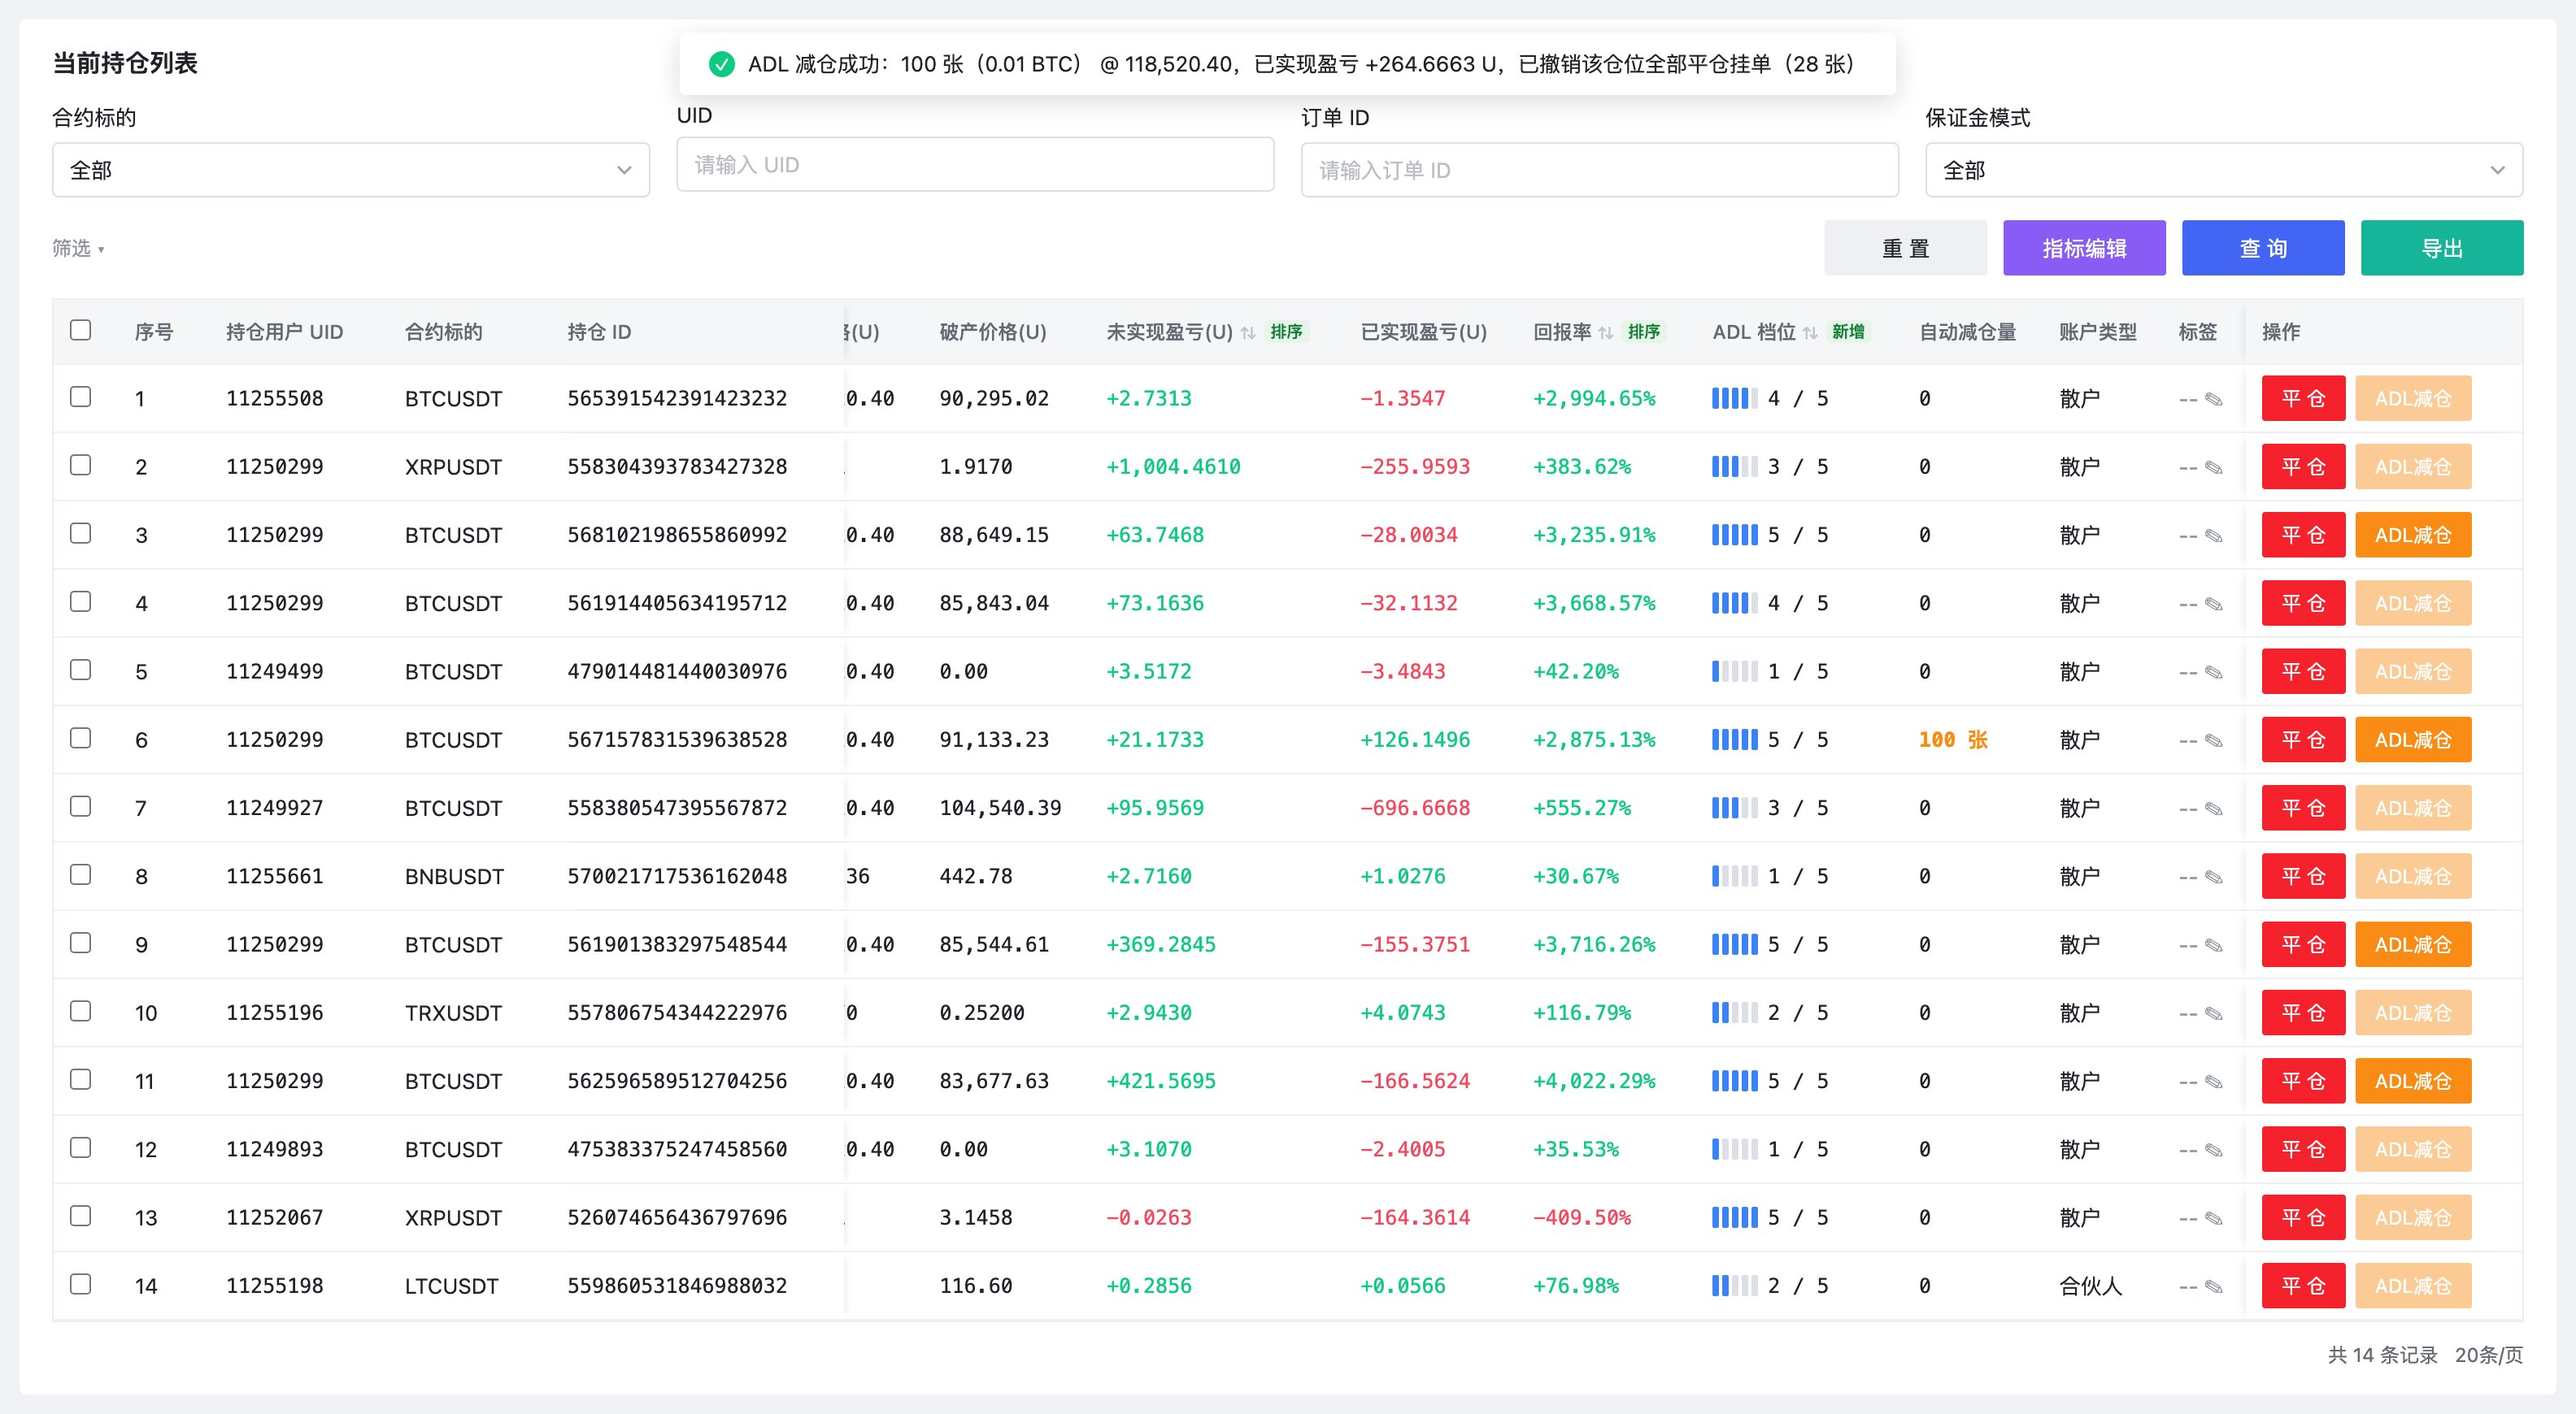
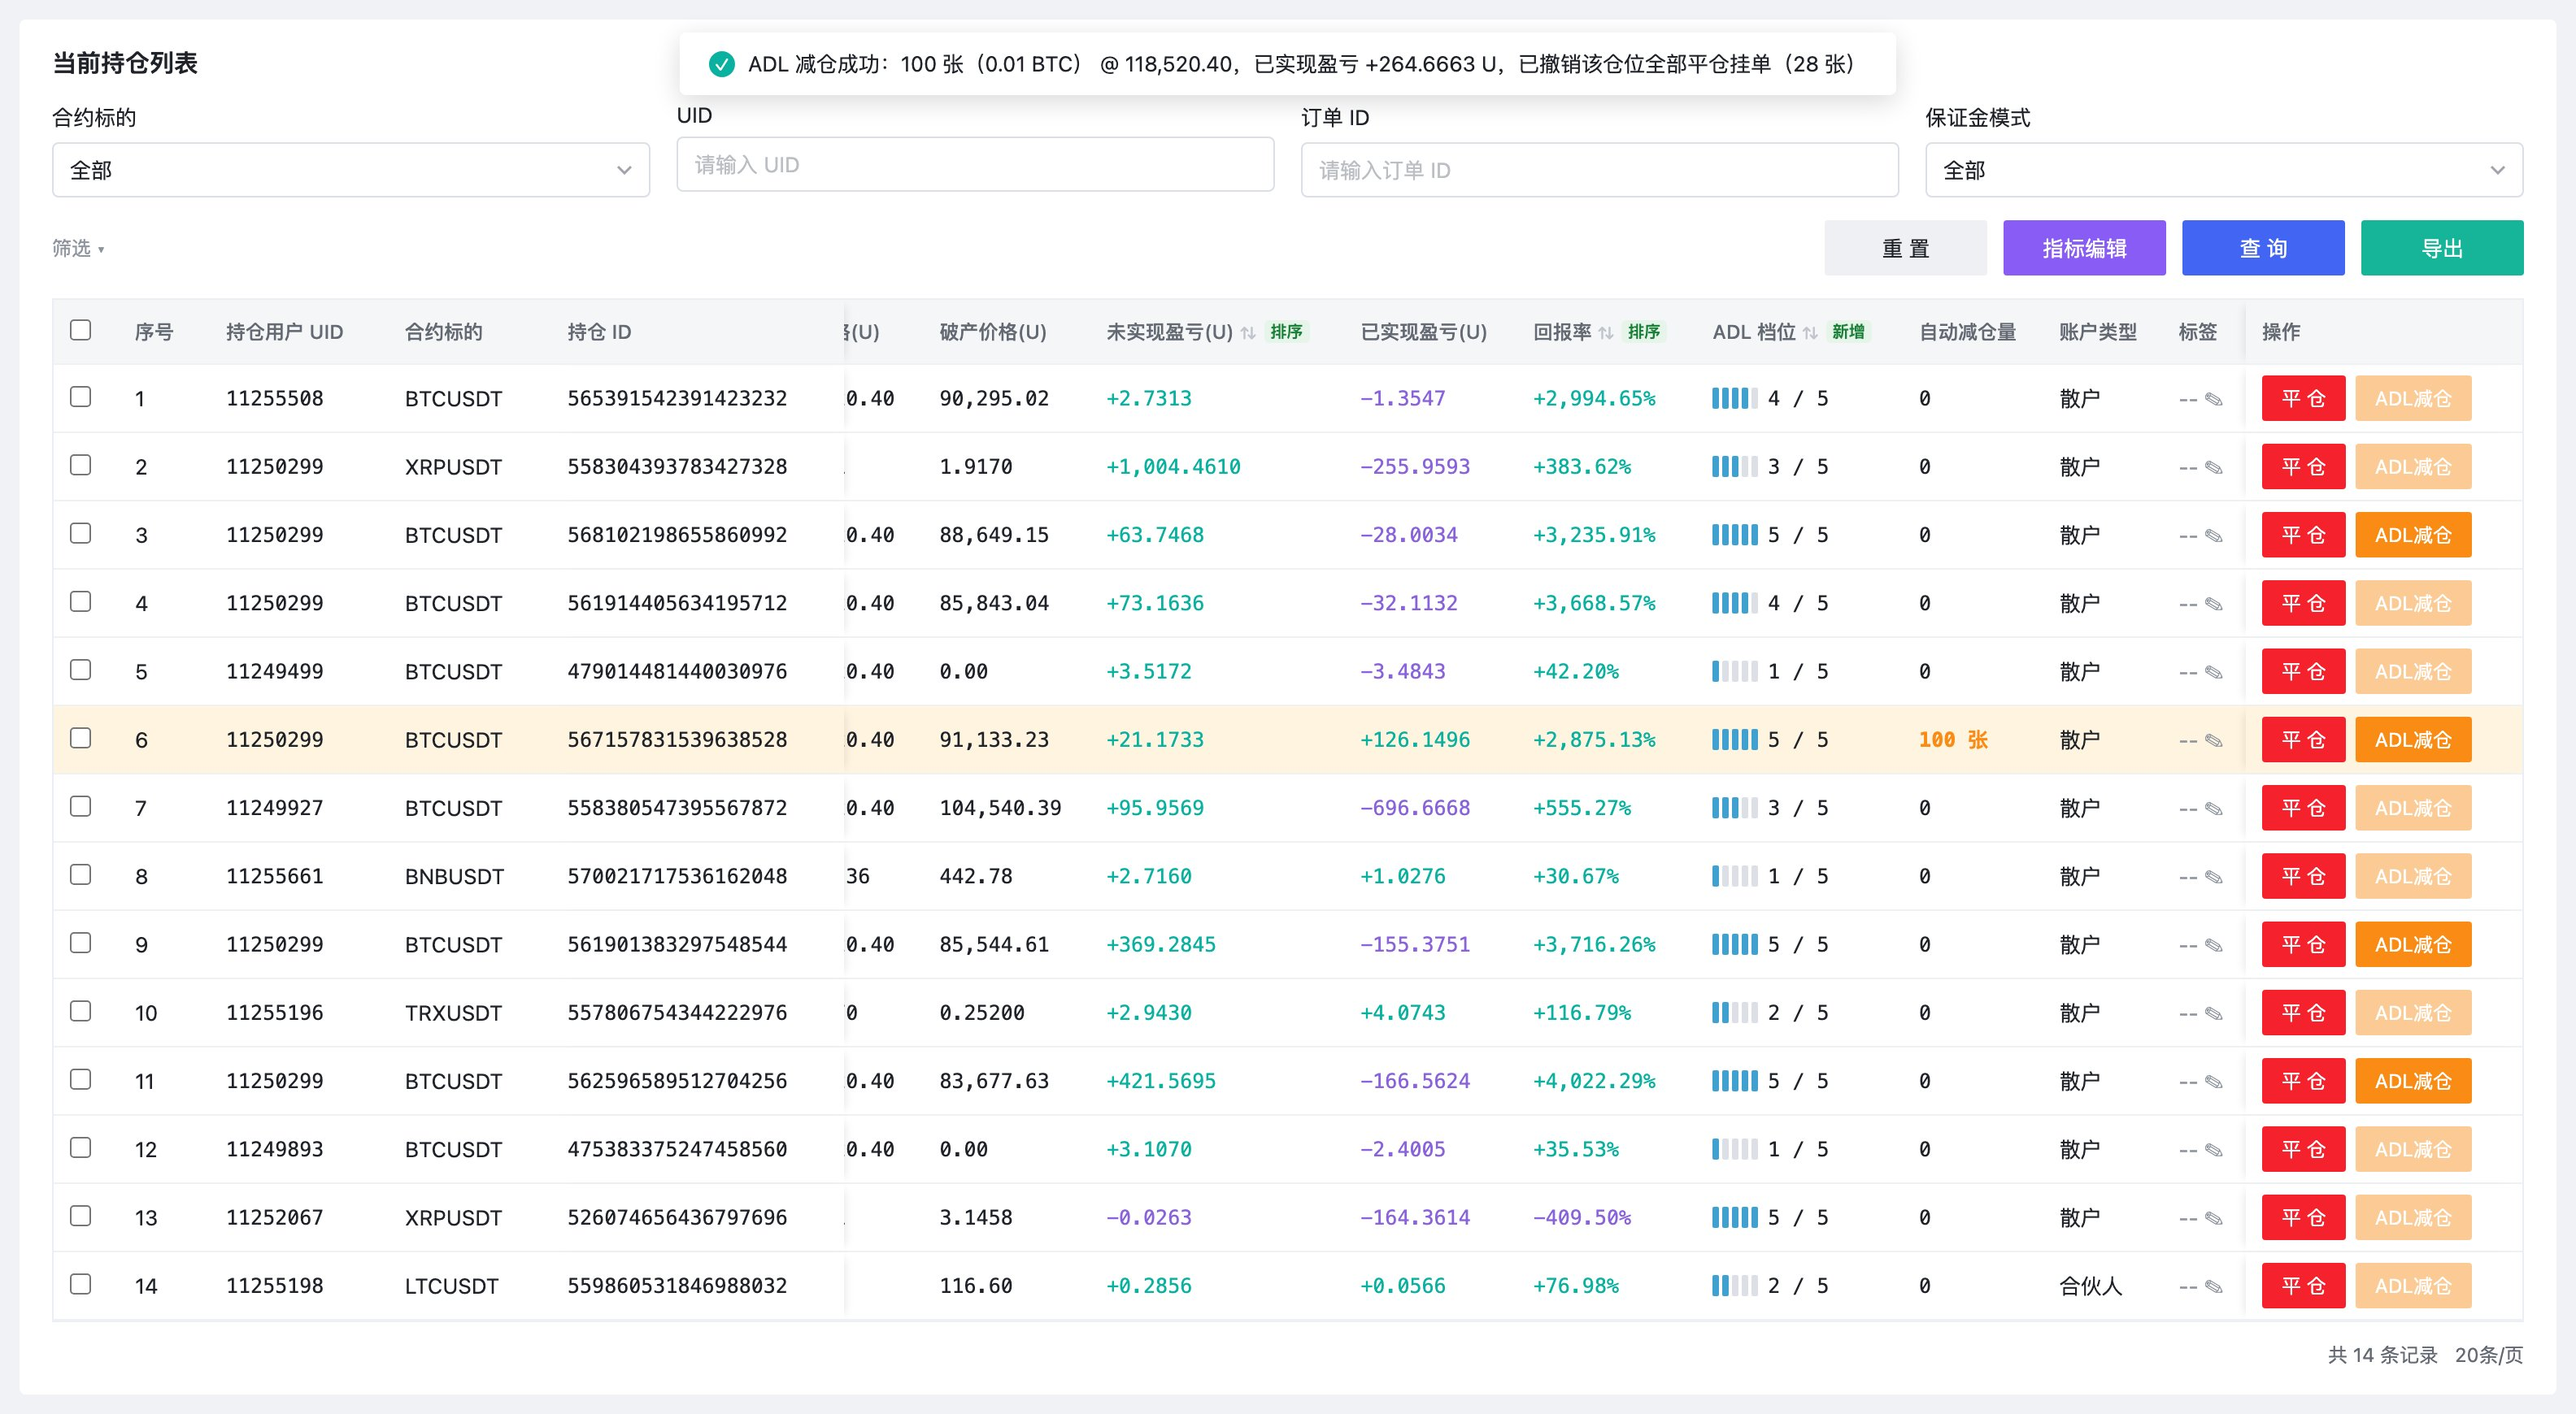
docs: 中台ADL减仓 PRD V1.2——同步评审反馈(绿涨紫跌/主站ADL灯色、去掉对手方、仓位信息联动),截图全部重截

diff --git a/中台ADL减仓_PRD_V1.0.html b/中台ADL减仓_PRD_V1.0.html
@@ -74,7 +74,7 @@
 
 <div class="cover">
   <h1>中台 ADL 减仓 PRD</h1>
-  <div class="ver">版本 V1.1 · 2026-10-09 · 修订人 Rhys</div>
+  <div class="ver">版本 V1.2 · 2026-10-11 · 修订人 Rhys</div>
   <div class="sub">需求类型：0→1 · 规模 L ｜ 配套原型：<a href="https://forclaudecode.vercel.app/1009-中台ADL减仓.html">1009-中台ADL减仓.html</a> ｜ 规则来源：规则台账_ADL减仓 v1.0（R01–R19）</div>
 </div>
 
@@ -243,6 +243,7 @@ flowchart LR
 
 <h3>3.3 原型及说明</h3>
 <p>原型地址：<a href="https://forclaudecode.vercel.app/1009-中台ADL减仓.html">1009-中台ADL减仓.html</a>（顶部可切换「中台」与「用户端 · App + Web」）。</p>
+<p><strong>颜色规范</strong>：涨 / 盈利为绿色（#0BB1A0），跌 / 亏损为紫色（#8A62DC），与中台和主站现有配色一致；ADL 指示灯点亮色与主站一致（#40A0D0）。组件样式与颜色最终以中台前端现有组件为准。</p>
 
 <h4>3.3.1 中台 · 当前持仓列表</h4>
 <figure class="fig"><img src="中台ADL减仓_PRD_assets/01_admin_list.jpg" alt="图 1　当前持仓列表（已按「ADL 档位」降序；亮满 5 格且浮盈的仓位「ADL减仓」可点，第 5 行为亮满 5 格但浮亏，置灰）" loading="lazy"><figcaption>图 1　当前持仓列表（已按「ADL 档位」降序；亮满 5 格且浮盈的仓位「ADL减仓」可点，第 5 行为亮满 5 格但浮亏，置灰）</figcaption></figure>
@@ -260,18 +261,18 @@ flowchart LR
 </table>
 
 <h4>3.3.2 中台 · ADL 减仓弹窗</h4>
-<figure class="fig narrow"><img src="中台ADL减仓_PRD_assets/02_adl_modal.jpg" alt="图 2　ADL 减仓弹窗（输入 100 张；该仓位有平仓挂单，显示撤单提示）" loading="lazy"><figcaption>图 2　ADL 减仓弹窗（输入 100 张；该仓位有平仓挂单，显示撤单提示）</figcaption></figure>
+<figure class="fig narrow"><img src="中台ADL减仓_PRD_assets/02_adl_modal.jpg" alt="图 2　ADL 减仓弹窗（输入 100 张后，上方仓位信息联动为减仓后数据；该仓位有平仓挂单，显示撤单提示）" loading="lazy"><figcaption>图 2　ADL 减仓弹窗（输入 100 张后，上方仓位信息联动为减仓后数据；该仓位有平仓挂单，显示撤单提示）</figcaption></figure>
 <table>
   <tr><th>区域</th><th>元素</th><th>说明</th></tr>
   <tr><td>标题</td><td>「ADL 减仓」+ 标签「用户端展示为『ADL 自动减仓』」</td><td>提醒运营该操作对用户的呈现方式。</td></tr>
-  <tr><td>仓位信息（只读）</td><td>UID、合约、方向（多 / 空 · 保证金模式 · 杠杆）、持仓 ID、开仓均价、标记价格、持仓量 / 可平量（张和币两行）、累计已 ADL、未实现盈亏、回报率、已实现盈亏、ADL 档位、账户类型</td><td>打开弹窗时的快照，用于判断。</td></tr>
+  <tr><td rowspan="2">仓位信息（只读）</td><td>UID、合约、方向（多 / 空 · 保证金模式 · 杠杆）、持仓 ID、开仓均价、标记价格、持仓量 / 可平量（张和币两行）、累计已 ADL、未实现盈亏、回报率、已实现盈亏、ADL 档位、账户类型</td><td>未输入数量时显示当前值，标题为「仓位信息（当前）」。</td></tr>
+  <tr><td>输入数量后联动</td><td>输入合法数量后，以下字段实时联动为<strong>减仓后</strong>的数据，下方附划线的当前值，标题提示「已按输入数量联动为减仓后数据」：持仓量 / 可平量（平仓挂单全部撤销，可平量 = 剩余持仓量；全部减完显示「0（全部平掉）」）、累计已 ADL、未实现盈亏（按剩余仓位）、已实现盈亏（加上本次预计已实现盈亏）。回报率不变；ADL 档位显示当前格数并注明「执行后按现有逻辑重算」。数量清空或不合法时恢复当前值。</td></tr>
   <tr><td rowspan="5">减仓数量</td><td>输入框（必填）</td><td>可输入整数或小数。</td></tr>
   <tr><td>单位切换「张 | 币」</td><td>币按钮显示合约币种（如 BTC）。默认跟随列表当前单位。切换时，已输入的合法数值自动换算（如 50.5 张 ⇄ 0.00505 BTC）。</td></tr>
   <tr><td>「全部」</td><td>按当前单位填入全部持仓量。</td></tr>
   <tr><td>范围提示</td><td>「可减范围 最小单位 ~ 持仓量，最多 N 位小数（按合约数量精度配置）」。</td></tr>
   <tr><td>换算提示</td><td>输入合法时显示另一单位的换算值，如「≈ 50.5 张」。</td></tr>
-  <tr><td rowspan="6">执行预览</td><td>成交价格</td><td>当前标记价格，注明「执行时实时标记价」。</td></tr>
-  <tr><td>对手方</td><td>固定文案：「无对手仓位，直接结算；盈亏由平台账户承接」。</td></tr>
+  <tr><td rowspan="5">执行预览</td><td>成交价格</td><td>当前标记价格，注明「执行时实时标记价」。</td></tr>
   <tr><td>本次减仓价值</td><td>减仓数量 × 合约面值 × 当前标记价格。</td></tr>
   <tr><td>预计已实现盈亏</td><td>按当前标记价格估算，正绿负红。</td></tr>
   <tr><td>手续费</td><td>固定 0，注明「被减仓用户不收手续费」。</td></tr>
@@ -431,6 +432,7 @@ flowchart LR
   <tr><th>版本</th><th>日期</th><th>阶段</th><th>变更摘要</th><th>变更原因</th></tr>
   <tr><td>V1.0</td><td>2026-10-09</td><td>初稿（评审前）</td><td>基于原型与规则台账 v1.0（R01–R19）产出完整 PRD</td><td>中台 ADL 减仓需求立项，准备评审会</td></tr>
   <tr><td>V1.1</td><td>2026-10-09</td><td>初稿（评审前）</td><td>3.3 全部截图占位替换为原型截图（图 1–14）；文档主题色改为淡紫色</td><td>PM 要求补齐原型截图、调整配色</td></tr>
+  <tr><td>V1.2</td><td>2026-10-11</td><td>初稿（评审前）</td><td>涨跌色改为中台 / 主站绿涨紫跌，ADL 指示灯改为主站色；减仓弹窗去掉「对手方」字段；输入数量后上方仓位信息联动为减仓后数据；截图全部重截</td><td>业务方（Yuushi）对弹窗的反馈</td></tr>
 </table>
 
 </div></div>
